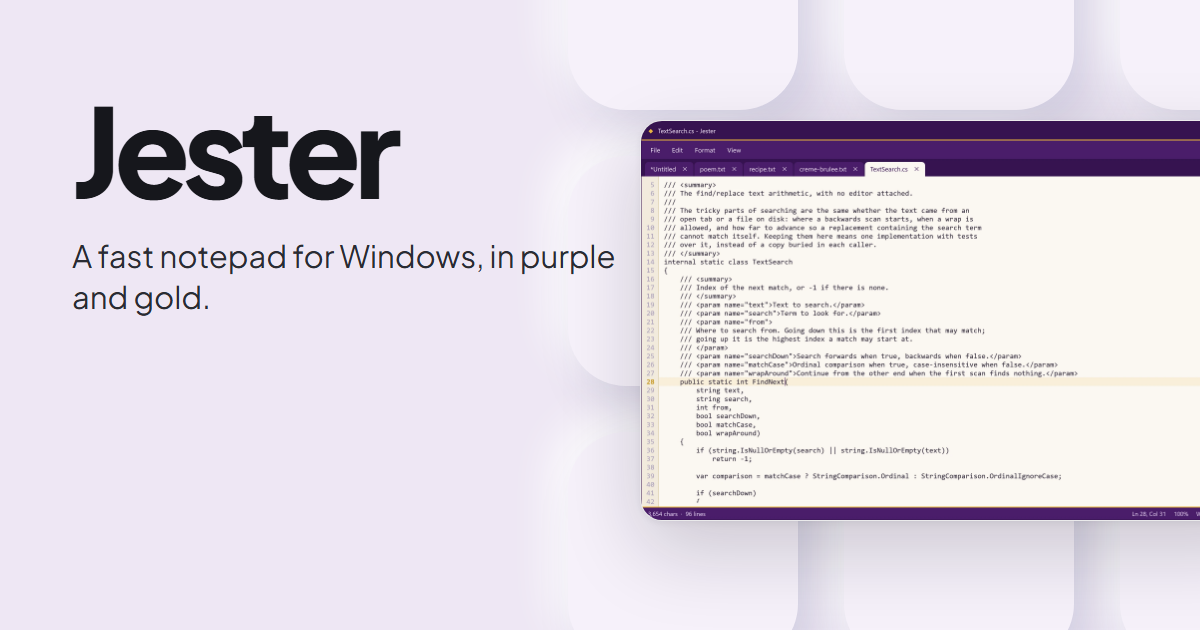
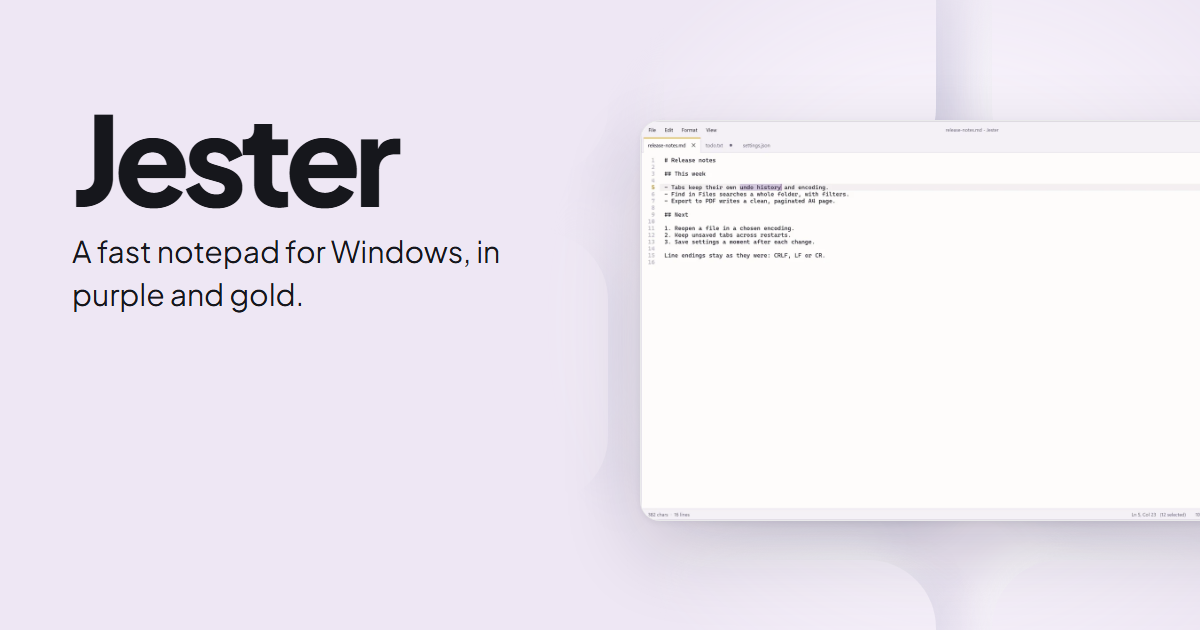
Show the new look on the download page, light and dark

diff --git a/site/index.html b/site/index.html
@@ -355,7 +355,7 @@ footer p { margin: 0.3rem 0; }
 </div>
 </div>
 <div class="hero-shot">
-<figure class="window"><picture><img src="img/hero.webp" srcset="img/hero-1440.webp 1440w, img/hero.webp 2560w" sizes="(max-width: 900px) 100vw, 60vw" width="2560" height="1600" alt="Jester with five tabs open, a C# file in the editor with line numbers and the status bar showing line, column and encoding" fetchpriority="high" decoding="async"></picture></figure>
+<figure class="window"><picture><source srcset="img/hero-dark-1440.webp 1440w, img/hero-dark.webp 2560w" sizes="(max-width: 900px) 100vw, 60vw" media="(prefers-color-scheme: dark)"><img src="img/hero-light.webp" srcset="img/hero-light-1440.webp 1440w, img/hero-light.webp 2560w" sizes="(max-width: 900px) 100vw, 60vw" width="2560" height="1600" alt="Jester with three tabs open, release notes in the editor with line numbers and the status bar showing line, column, line ending and encoding" fetchpriority="high" decoding="async"></picture></figure>
 </div>
 </div>
 </div>
@@ -366,23 +366,24 @@ footer p { margin: 0.3rem 0; }
 <div class="text">
 <p class="label">Tabs</p>
 <h2>Unsaved tabs survive a restart</h2>
-<p>Close Jester with unsaved or Untitled tabs and they come back with their text on the next start, marked with an asterisk.</p>
+<p>Close Jester with unsaved or Untitled tabs and they come back with their text on the next start, marked with a dot.</p>
 <p>The session is written as you type, so a crash or a shutdown keeps them too.</p>
 </div>
 <div class="stage">
-<div class="main" style="--pos: 0 0; --zoom: 1; --ar: 2560 / 1600"><picture><img src="img/f5.webp" srcset="img/f5-1440.webp 1440w, img/f5.webp 2560w" sizes="(max-width: 900px) 100vw, 60vw" width="2560" height="1600" alt="Jester after a restart with the unsaved Untitled and recipe tabs back" loading="lazy" decoding="async"></picture></div>
-<div class="detail"><picture><img src="img/c5.webp" width="1180" height="295" alt="" loading="lazy" decoding="async"></picture></div>
+<div class="main" style="--pos: 0 0; --zoom: 1; --ar: 2200 / 1400"><picture><source srcset="img/f5-dark-1440.webp 1440w, img/f5-dark.webp 2200w" sizes="(max-width: 900px) 100vw, 60vw" media="(prefers-color-scheme: dark)"><img src="img/f5-light.webp" srcset="img/f5-light-1440.webp 1440w, img/f5-light.webp 2200w" sizes="(max-width: 900px) 100vw, 60vw" width="2200" height="1400" alt="Jester with three tabs, the edited todo list marked unsaved with a dot" loading="lazy" decoding="async"></picture></div>
+<div class="detail"><picture><source srcset="img/c5-dark.webp" media="(prefers-color-scheme: dark)"><img src="img/c5-light.webp" width="1180" height="294" alt="" loading="lazy" decoding="async"></picture></div>
 </div>
 </div>
 <div class="feature flip">
 <div class="text">
 <p class="label">Replace</p>
-<h2>Find and replace in one dialog</h2>
-<p>Find Next, Replace and Replace All, with match case, wrap around and a search direction. Replace All is one step that Undo takes back.</p>
+<h2>Find and replace over the text</h2>
+<p>Find and replace sit in a panel at the top right of the editor, so the text stays in view. <kbd>Enter</kbd> finds the next match and <kbd>Shift+Enter</kbd> the previous one, with match case and wrap around.</p>
+<p>Replace All is one step that Undo takes back.</p>
 </div>
 <div class="stage">
-<div class="main" style="--pos: 70% 0; --zoom: 1; --ar: 2560 / 1600"><picture><img src="img/f1.webp" srcset="img/f1-1440.webp 1440w, img/f1.webp 2560w" sizes="(max-width: 900px) 100vw, 60vw" width="2560" height="1600" alt="The Replace dialog over a recipe, replacing sugar with honey" loading="lazy" decoding="async"></picture></div>
-<div class="detail"><picture><img src="img/c1.webp" width="1112" height="398" alt="" loading="lazy" decoding="async"></picture></div>
+<div class="main" style="--pos: 70% 0; --zoom: 1; --ar: 2560 / 1600"><picture><source srcset="img/f1-dark-1440.webp 1440w, img/f1-dark.webp 2560w" sizes="(max-width: 900px) 100vw, 60vw" media="(prefers-color-scheme: dark)"><img src="img/f1-light.webp" srcset="img/f1-light-1440.webp 1440w, img/f1-light.webp 2560w" sizes="(max-width: 900px) 100vw, 60vw" width="2560" height="1600" alt="The find and replace panel over the release notes, with undo history found" loading="lazy" decoding="async"></picture></div>
+<div class="detail"><picture><source srcset="img/c1-dark.webp" media="(prefers-color-scheme: dark)"><img src="img/c1-light.webp" width="980" height="264" alt="" loading="lazy" decoding="async"></picture></div>
 </div>
 </div>
 <div class="feature">
@@ -392,8 +393,8 @@ footer p { margin: 0.3rem 0; }
 <p>Find in Files, <kbd>Ctrl+Shift+F</kbd>, searches a folder and its subfolders, with filters such as <code>*.cs</code>. Double-click a result to open the file at that line.</p>
 </div>
 <div class="stage">
-<div class="main" style="--pos: 0 100%; --zoom: 1; --ar: 2560 / 1600"><picture><img src="img/f2.webp" srcset="img/f2-1440.webp 1440w, img/f2.webp 2560w" sizes="(max-width: 900px) 100vw, 60vw" width="2560" height="1600" alt="Find in Files results: nine matches in three files" loading="lazy" decoding="async"></picture></div>
-<div class="detail"><picture><img src="img/c2.webp" width="1700" height="382" alt="" loading="lazy" decoding="async"></picture></div>
+<div class="main" style="--pos: 0 100%; --zoom: 1; --ar: 2560 / 1600"><picture><source srcset="img/f2-dark-1440.webp 1440w, img/f2-dark.webp 2560w" sizes="(max-width: 900px) 100vw, 60vw" media="(prefers-color-scheme: dark)"><img src="img/f2-light.webp" srcset="img/f2-light-1440.webp 1440w, img/f2-light.webp 2560w" sizes="(max-width: 900px) 100vw, 60vw" width="2560" height="1600" alt="Find in Files results: six matches in three files" loading="lazy" decoding="async"></picture></div>
+<div class="detail"><picture><source srcset="img/c2-dark.webp" media="(prefers-color-scheme: dark)"><img src="img/c2-light.webp" width="1700" height="370" alt="" loading="lazy" decoding="async"></picture></div>
 </div>
 </div>
 <div class="feature flip">
@@ -404,8 +405,8 @@ footer p { margin: 0.3rem 0; }
 <p>If a file still looks wrong, File, Reopen with Encoding reads it again in the encoding you pick.</p>
 </div>
 <div class="stage">
-<div class="main" style="--pos: 0 0; --zoom: 1; --ar: 2560 / 1600"><picture><img src="img/f3.webp" srcset="img/f3-1440.webp 1440w, img/f3.webp 2560w" sizes="(max-width: 900px) 100vw, 60vw" width="2560" height="1600" alt="The File menu with Reopen with Encoding open on a Windows-1252 file" loading="lazy" decoding="async"></picture></div>
-<div class="detail" style="width: 34%"><picture><img src="img/c3.webp" width="900" height="710" alt="" loading="lazy" decoding="async"></picture></div>
+<div class="main" style="--pos: 0 0; --zoom: 1; --ar: 2560 / 1600"><picture><source srcset="img/f3-dark-1440.webp 1440w, img/f3-dark.webp 2560w" sizes="(max-width: 900px) 100vw, 60vw" media="(prefers-color-scheme: dark)"><img src="img/f3-light.webp" srcset="img/f3-light-1440.webp 1440w, img/f3-light.webp 2560w" sizes="(max-width: 900px) 100vw, 60vw" width="2560" height="1600" alt="The File menu with Reopen with Encoding open" loading="lazy" decoding="async"></picture></div>
+<div class="detail" style="width: 34%"><picture><source srcset="img/c3-dark.webp" media="(prefers-color-scheme: dark)"><img src="img/c3-light.webp" width="920" height="690" alt="" loading="lazy" decoding="async"></picture></div>
 </div>
 </div>
 <div class="feature">
@@ -415,9 +416,20 @@ footer p { margin: 0.3rem 0; }
 <p>The Format menu switches a tab between Windows, Unix and old Mac line endings, and between UTF-8, UTF-8 with BOM and UTF-16. Word wrap, auto indent and the font sit in the same menu.</p>
 </div>
 <div class="stage">
-<div class="main" style="--pos: 0 0; --zoom: 1; --ar: 2560 / 1600"><picture><img src="img/f4.webp" srcset="img/f4-1440.webp 1440w, img/f4.webp 2560w" sizes="(max-width: 900px) 100vw, 60vw" width="2560" height="1600" alt="The Format menu with Line Endings open and Windows (CRLF) ticked" loading="lazy" decoding="async"></picture></div>
-<div class="detail" style="width: 34%"><picture><img src="img/c4.webp" width="680" height="460" alt="" loading="lazy" decoding="async"></picture></div>
+<div class="main" style="--pos: 0 0; --zoom: 1; --ar: 2560 / 1600"><picture><source srcset="img/f4-dark-1440.webp 1440w, img/f4-dark.webp 2560w" sizes="(max-width: 900px) 100vw, 60vw" media="(prefers-color-scheme: dark)"><img src="img/f4-light.webp" srcset="img/f4-light-1440.webp 1440w, img/f4-light.webp 2560w" sizes="(max-width: 900px) 100vw, 60vw" width="2560" height="1600" alt="The Format menu with Line Endings open and Windows (CRLF) ticked" loading="lazy" decoding="async"></picture></div>
+<div class="detail" style="width: 40%"><picture><source srcset="img/c4-dark.webp" media="(prefers-color-scheme: dark)"><img src="img/c4-light.webp" width="890" height="446" alt="" loading="lazy" decoding="async"></picture></div>
 </div>
+</div>
+</section>
+<section class="pair" aria-labelledby="pair-h">
+<div class="head">
+<p class="label">Themes</p>
+<h2 id="pair-h">A dark and a light theme</h2>
+<p class="lead">Jester follows the Windows app mode and switches as soon as it changes.</p>
+</div>
+<div class="shots">
+<div class="shot one"><picture><img src="img/hero-light.webp" srcset="img/hero-light-1440.webp 1440w, img/hero-light.webp 2560w" sizes="(max-width: 900px) 100vw, 60vw" width="2560" height="1600" alt="Jester in its light theme" loading="lazy" decoding="async"></picture></div>
+<div class="shot two"><picture><img src="img/f1-dark.webp" srcset="img/f1-dark-1440.webp 1440w, img/f1-dark.webp 2560w" sizes="(max-width: 900px) 100vw, 60vw" width="2560" height="1600" alt="Jester in its dark theme" loading="lazy" decoding="async"></picture></div>
 </div>
 </section>
 <section id="new" aria-labelledby="new-h">
